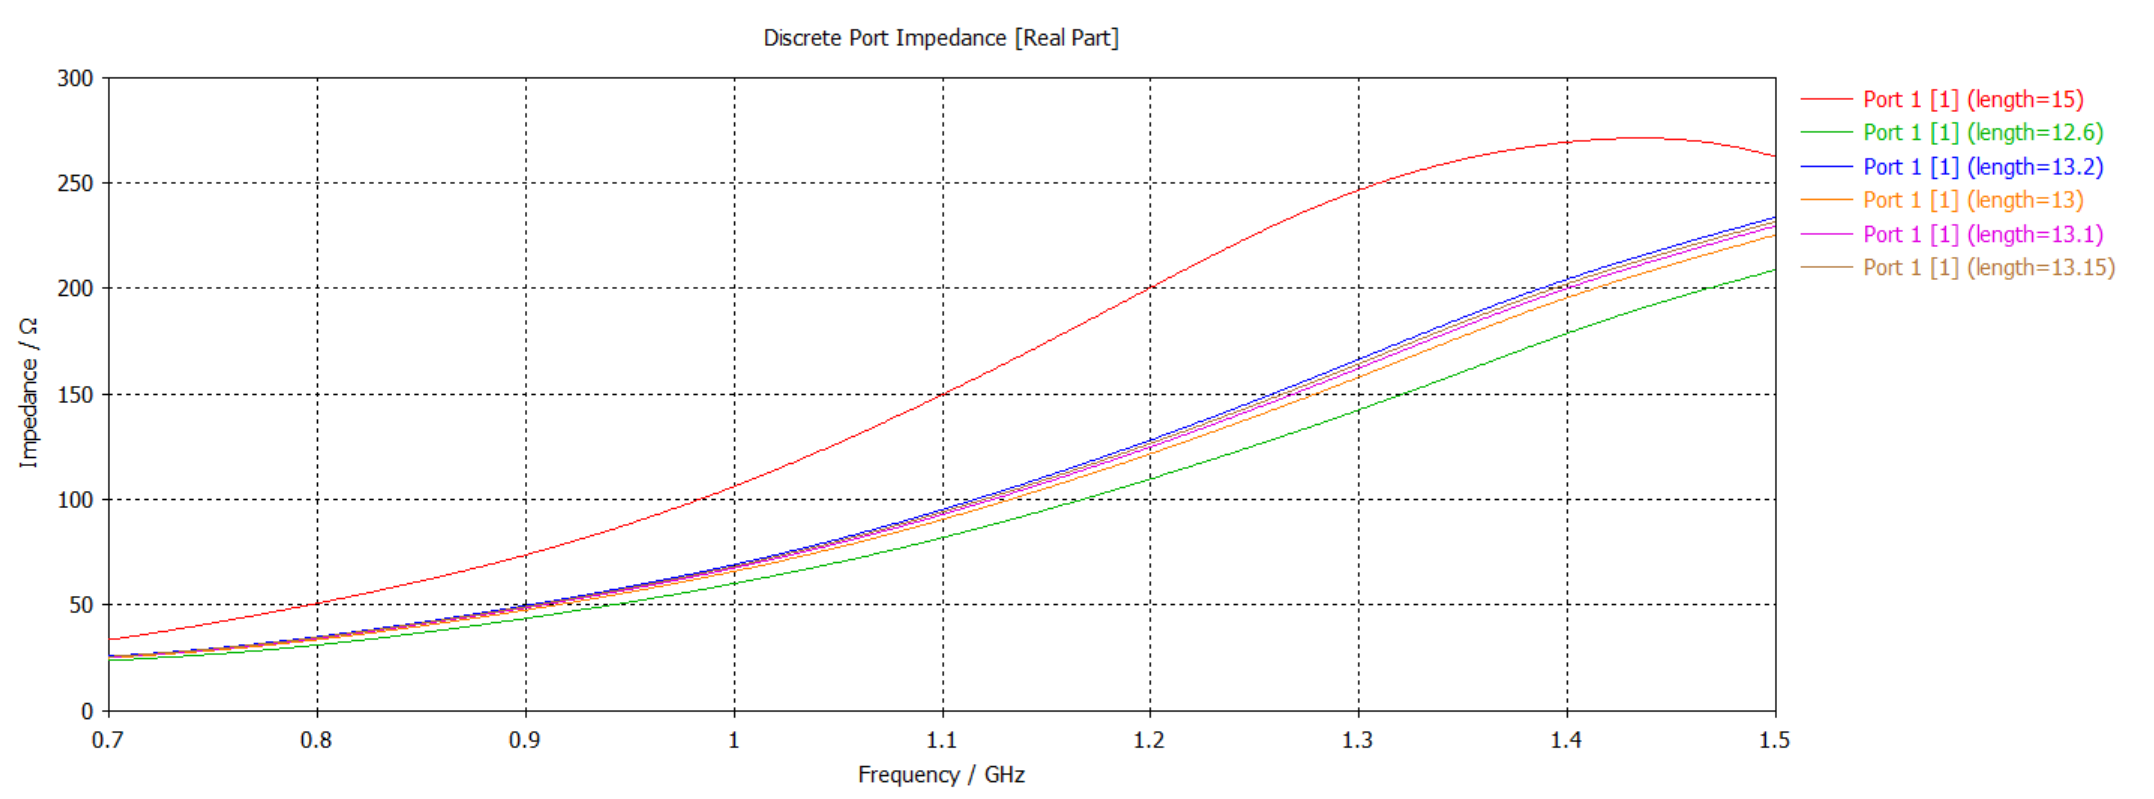
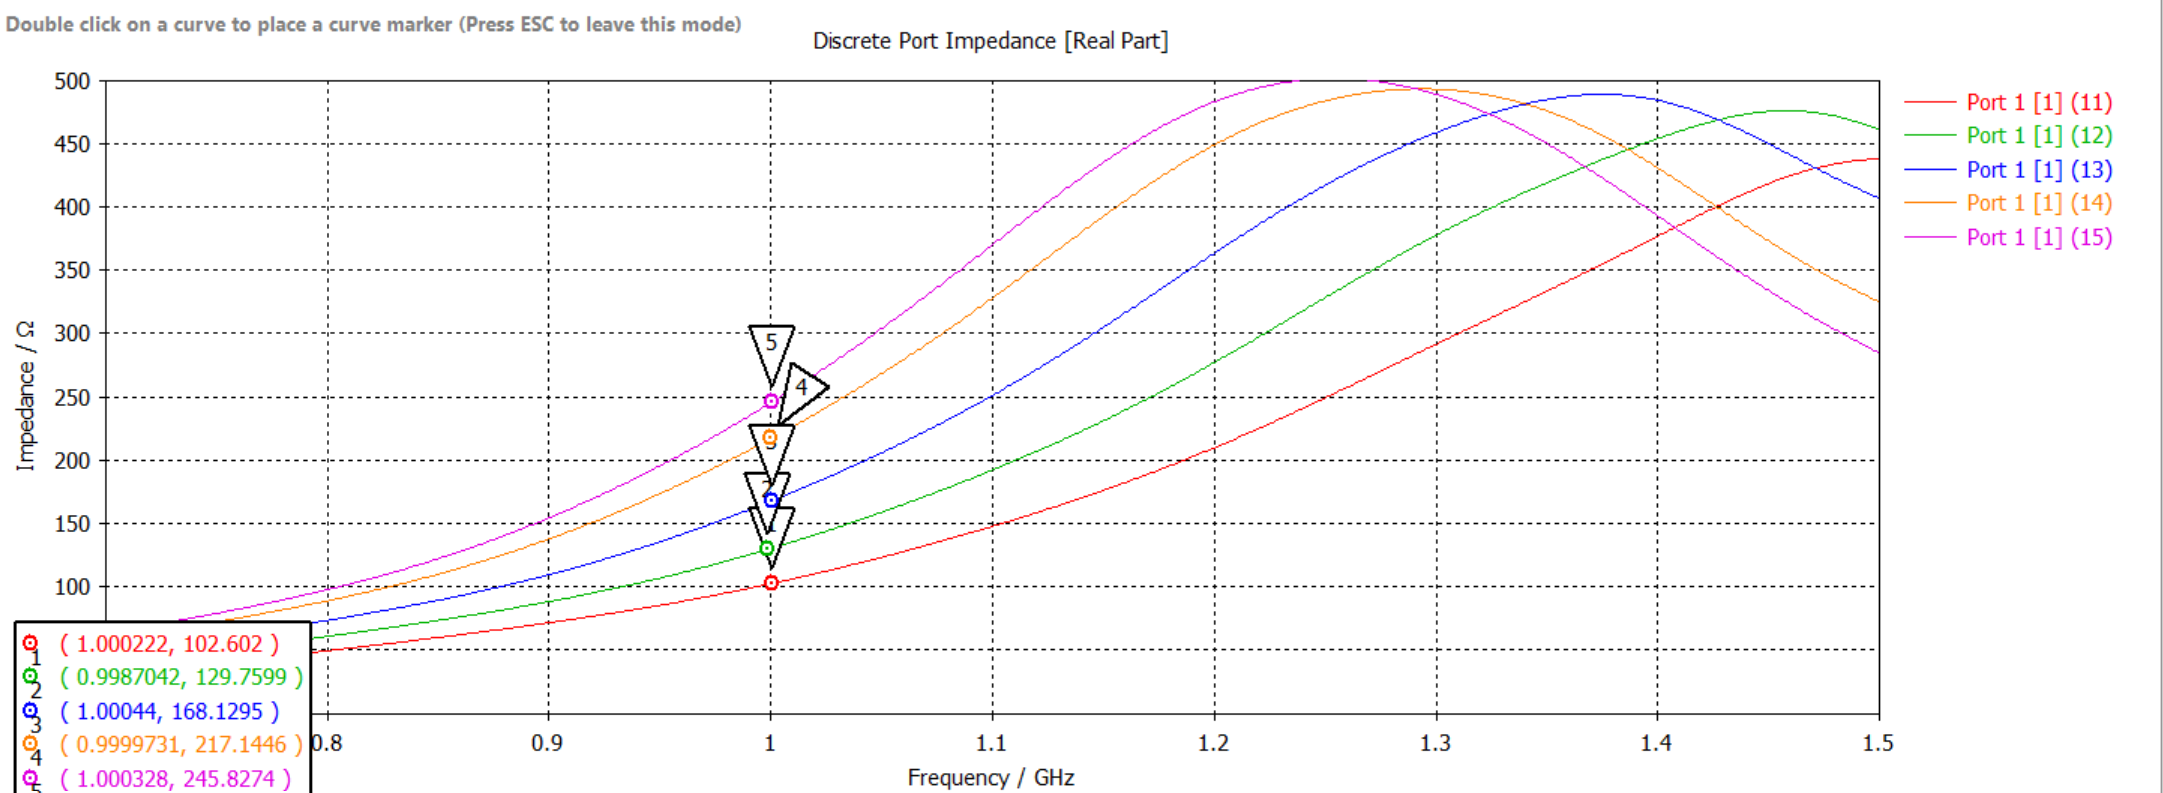
All sections finished except Discussion.

diff --git a/Lab 1/lab1_report.tex b/Lab 1/lab1_report.tex
@@ -245,24 +245,24 @@ We were not able to procure $1~\text{in}$ copper tape, so our fabricated antenna
 \section{Calibration and Measurement (Exercise 1.4)}
 
 \subsection{Calibration and reference plane}
-\todo[LibreVNA SOL calibration over \SIrange{0.5}{1.5}{GHz} (\SI{2}{MHz} steps, 501 points); reference plane at the end of the SMA test cable; adapter and leads not de-embedded (justify). Cable-movement diagnostic result.]
+The calibration procedures were followed according to the lab instructions shared by Professor Smith. Our frequency range used for calibration was 0.5 - 1.5 GHz.
 
 \subsection{Measured $S_{11}$}
 
 \begin{figure}[H]
   \centering
-  \includegraphics[width=\linewidth]{\measdir/dipole_s11.png}
+  \includegraphics[width=0.8\linewidth]{\measdir/dipole_s11.png}
   \caption{Measured $|S_{11}|$ of the \SI{1}{in} copper-tape dipole for each length.}
   \label{fig:meas-s11-all}
 \end{figure}
 
 \begin{figure}[H]
   \centering
-  \begin{subfigure}[b]{0.49\linewidth}
+  \begin{subfigure}[b]{0.4\linewidth}
     \includegraphics[width=\linewidth]{\measdir/S11_15.png}
     \caption{Smith chart, $L = \SI{15}{cm}$.}
   \end{subfigure}\hfill
-  \begin{subfigure}[b]{0.49\linewidth}
+  \begin{subfigure}[b]{0.4\linewidth}
     \includegraphics[width=\linewidth]{\measdir/S11_18.png}
     \caption{Smith chart, $L = \SI{18}{cm}$.}
   \end{subfigure}
@@ -295,19 +295,15 @@ The input impedance at each marker follows from
     18.5 & 996  & $-15.52$ & 902--1070  & 16.9 & $65.5 + j12.0$ @ 1000 \\
     \bottomrule
   \end{tabular}
-\end{table}
-
-\noindent\todo[Zero-reactance frequency for each length. The CSVs hold magnitude only, so $X = 0$ cannot be found from them; re-export complex $S_{11}$ (Touchstone \texttt{.s1p}) or read it from the Smith chart.]
+\end{table} The chart above shows the resonant frequency for each length. The CSVs hold magnitude only, so $X = 0$ cannot be found from them directly.
 
 % ═════════════════════════════════════════════════════════════
 \section{Geometry Study (Exercise 1.5)}
 
-\todo[Resonance shift vs.\ length, measured vs.\ CST. Compare slope $\Delta f / \Delta L$. Optional: quarter-wave (\SI{1}{in} vs.\ \SI{0.5}{in}) result below.]
-
 \begin{figure}[H]
   \centering
-  \includegraphics[width=\linewidth]{\measdir/dipole_s11_all.png}
-  \caption{All measured cuts including the quarter-wave specimens (\SI{1}{in} and \SI{0.5}{in}) to \SI{6}{GHz}. \todo[Describe the quarter-wave configuration.]}
+  \includegraphics[width=0.8\linewidth]{\measdir/dipole_s11_all.png}
+  \caption{All measured cuts including the quarter-wave specimens (\SI{1}{in} and \SI{0.5}{in}) to \SI{6}{GHz}.}
   \label{fig:meas-qw}
 \end{figure}
 
@@ -322,8 +318,6 @@ The input impedance at each marker follows from
 % ═════════════════════════════════════════════════════════════
 \section{Comparison with Theory (Exercise 1.6)}
 
-\todo[Analytical $R_r$ from the thin-dipole current distribution at each measured length; compare with simulated and measured $R_\text{in}$.]
-
 \begin{table}[H]
   \centering
   \caption{Input resistance: theory, simulation, measurement.}
@@ -332,26 +326,39 @@ The input impedance at each marker follows from
     \toprule
     $L$ (cm) & $R_r$ analytical ($\Omega$) & $R_\text{in}$ CST ($\Omega$) & $R_\text{in}$ measured ($\Omega$) \\
     \midrule
-    15   & \todo[...] & \todo[...] & 72.1 \\
-    16   & \todo[...] & \todo[...] & 70.2 \\
-    17   & \todo[...] & \todo[...] & 72.0 \\
-    18   & \todo[...] & \todo[...] & 68.4 \\
-    18.5 & \todo[...] & \todo[...] & 65.5 \\
+    15   & 36.84 & 102.602 & 72.1 \\
+    16   & 44.02 & 129.75 & 70.2 \\
+    17   & 52.26 & 168.13 & 72.0 \\
+    18   & 61.64 & 217.14 & 68.4 \\
+    18.5 & 66.83 & 245.83 & 65.5 \\
     \bottomrule
   \end{tabular}
 \end{table}
 
 \begin{question}How does the analytical radiation resistance compare with the simulated input resistance?\end{question}
-\answer{\todo}
-
+\answer{We can find the analytical value of $R_r$ using the following approximation:}
+\begin{equation}
+    R_{\text{rad}} \approx 20\pi^2 \left(\frac{L}{\lambda}\right)^2 \left[ 1 + \frac{\pi^2}{12}\left(\frac{L}{\lambda}\right)^2 \right]
+\end{equation}
+Looking at the values in Table 5, each value of $R_r$ and the values of $R_{in}$ do not seem to agree. At the longer lengths of L (18 and 18.5 mm), the analytical values are close to what was measured. The simulated input impedance for each length was simulated and plotted below.
+\begin{figure}[H]
+    \centering
+    \includegraphics[width=0.8\linewidth]{Lab 1/Data/input_impedance.png}
+    \caption{Length vs. Input Impedance}
+    \label{fig:placeholder}
+\end{figure}
 \begin{question}How closely does the measured resistance agree with simulation?\end{question}
-\answer{\todo}
+\answer{Unfortunately, the simulated resistance values do not agree with the simulation. This could be for one of several reasons.}
 
 \begin{question}What physical effects could account for differences?\end{question}
-\answer{\todo}
+\answer{The most obvious reason is the feed. The adapter we chose to use completely changes how the port should be modeled in CST. For the sake of our time and energy, we have chosen not to pursue this lengthy simulation.}
 
 \begin{question}Can the measured input resistance alone establish the antenna's radiation efficiency? Explain.\end{question}
-\answer{\todo}
+\answer{Based on our discussions in lecture, this value alone cannot establish the radiation efficiency of the antenna. You would also need to estimate the ohmic line resistance, $R_l$, of the antenna configuration. This is modeled using the following equation:}
+
+\begin{equation}
+    e_r = \frac{R_r}{R_r + R_l}
+\end{equation}
 
 % ═════════════════════════════════════════════════════════════
 \section{Discussion}
@@ -375,7 +382,5 @@ The input impedance at each marker follows from
 \todo
 
 % ═════════════════════════════════════════════════════════════
-\section{Conclusion}
-\todo
 
 \end{document}
